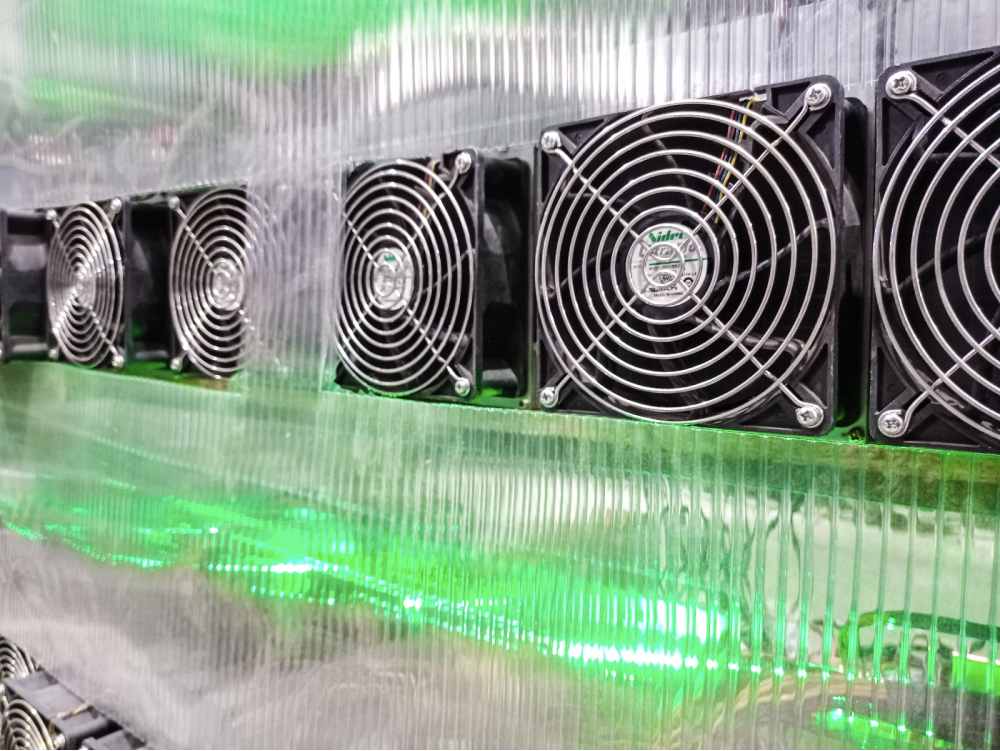
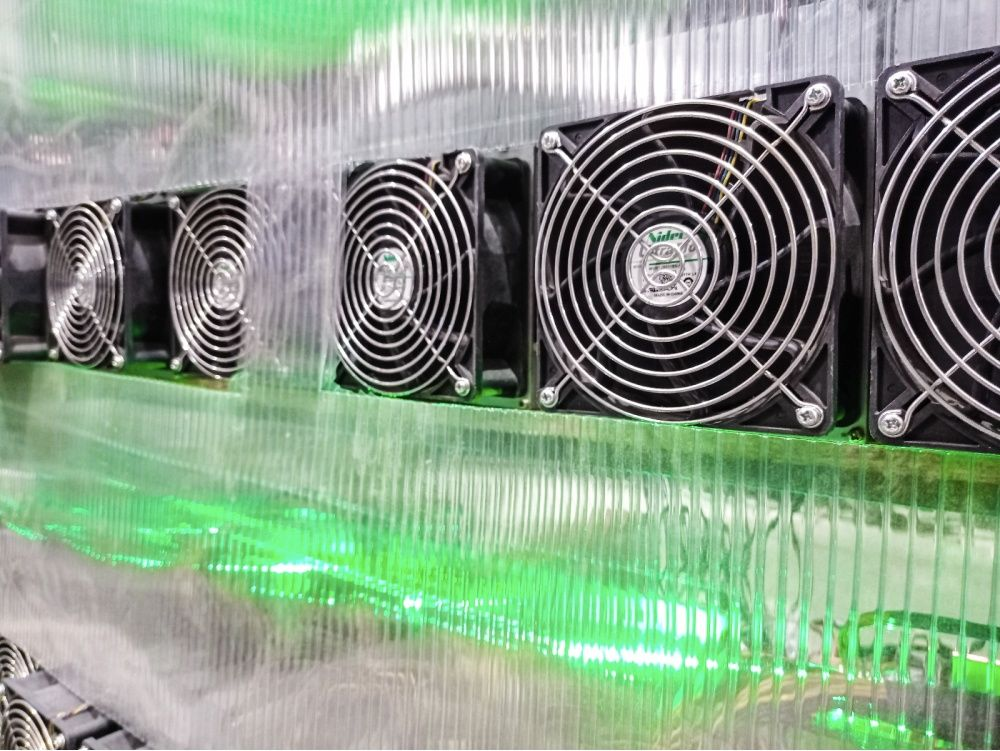
optimize images

Changed region(s): [[0.217, 0.735, 0.527, 0.8575], [0.589, 0.7963, 0.744, 0.8881], [0.558, 0.8575, 0.651, 0.8881]]

diff --git a/src/styles/index.scss b/src/styles/index.scss
@@ -76,3 +76,7 @@ a {
 .circle {
   border-radius: 50%;
 }
+
+.swiper-container {
+  overflow: inherit !important;
+}
